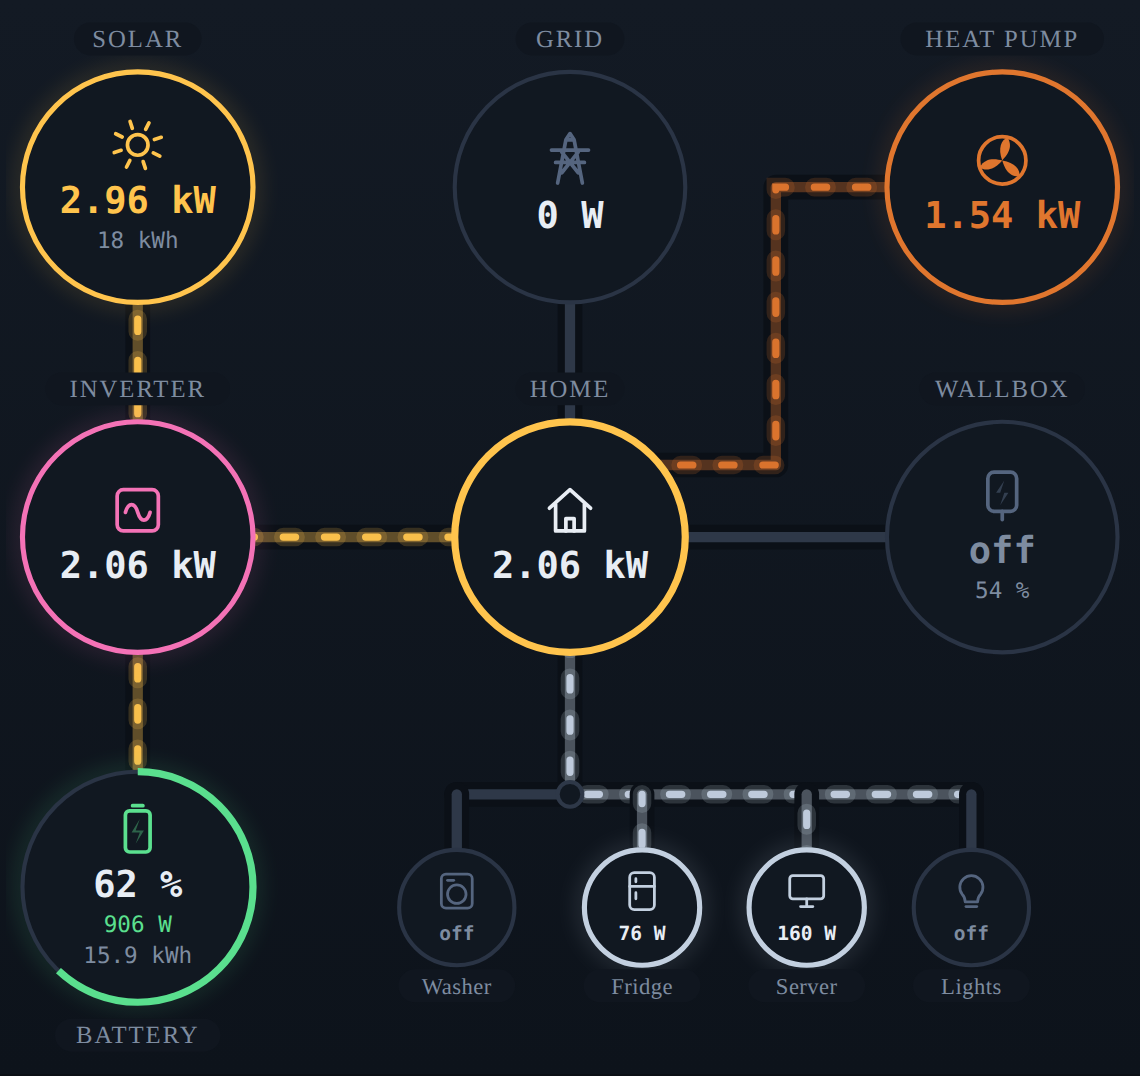
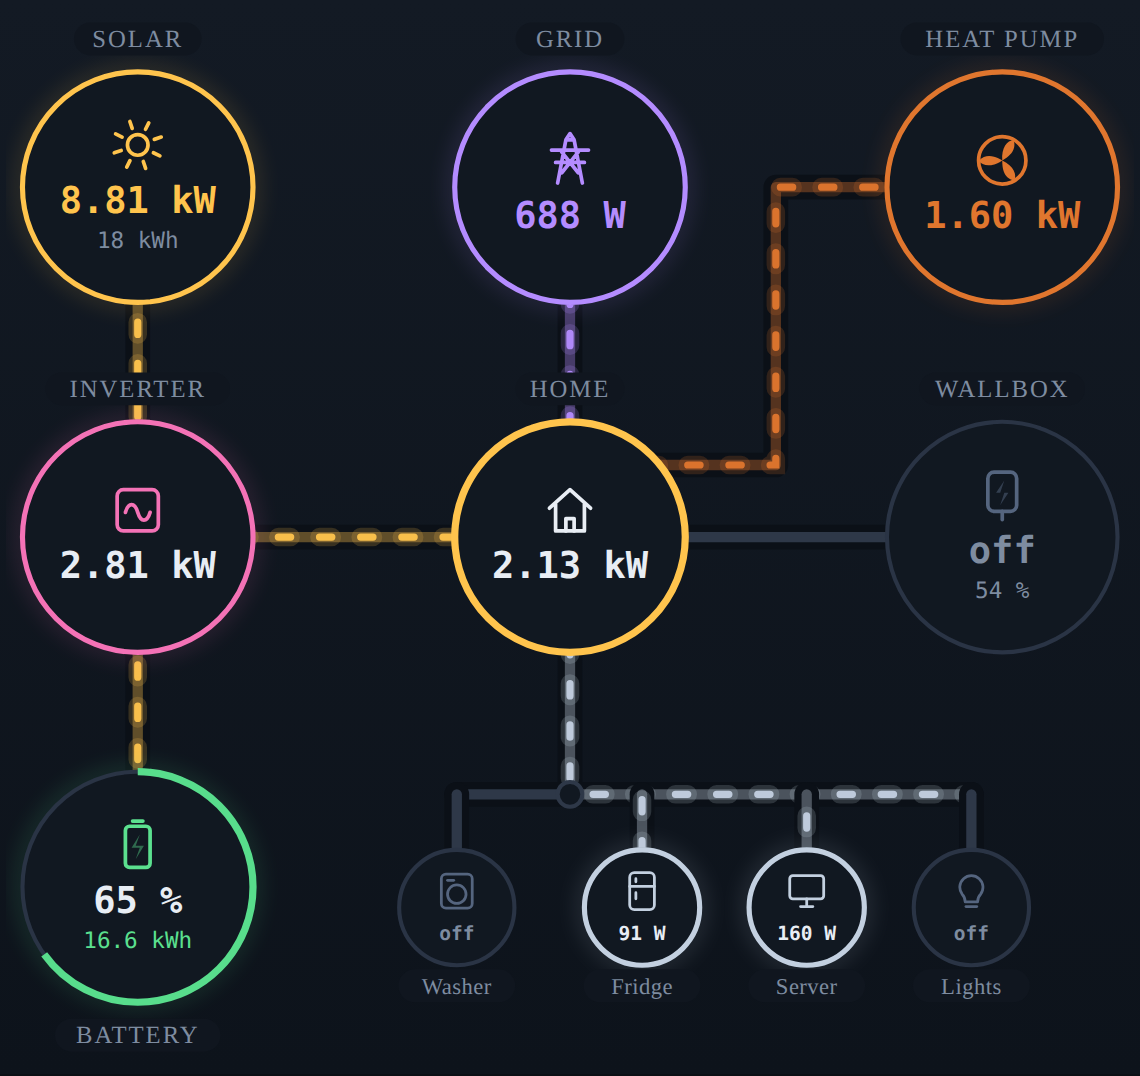
fix kwh batterie

diff --git a/dist/energy-flow-card-by-lutarym.js b/dist/energy-flow-card-by-lutarym.js
@@ -165,8 +165,8 @@ const DEFAULT_CONFIG = {
   animation_speed: 1,
   // Faktor fuer alle Schriften der Karte, 1 ist normal.
   font_scale: 1,
-  // Nutzbare Kapazitaet des Akkus in kWh. 0 heisst: kein Inhalt in kWh.
-  battery_capacity: 0,
+  // Kapazitaet des Akkus in kWh, falls keine Entitaet sie liefert.
+  battery_capacity_kwh: 0,
   // Leistung, bei der die Striche am schnellsten laufen, in Watt.
   max_power: 10000,
   // Unterhalb dieser Leistung in Watt anzeigen, darueber in kW.
@@ -461,6 +461,28 @@ class LutarymEnergyFlowCard extends HTMLElement {
   _verbraucherText(id, w, aktiv) {
     if (w !== null && w !== undefined) return aktiv ? this._wText(w) : this._t("aus");
     return this._zustand(id) ? this._t("nv") : "--";
+  }
+
+  /**
+   * Maximale Kapazitaet des Akkus in kWh. Eine Entitaet gewinnt, etwa
+   * capacity_maximum der Fronius-Integration in Wh. Sonst der feste Wert.
+   */
+  _kapazitaet() {
+    const c = this._config;
+    if (c.demo) return 25.6;
+    const id = c.entities && c.entities.battery_capacity;
+    const st = id ? this._zustand(id) : null;
+    if (st) {
+      const v = parseFloat(st.state);
+      if (!Number.isNaN(v) && v > 0) {
+        const einheit = String((st.attributes && st.attributes.unit_of_measurement) || "")
+          .trim().toLowerCase();
+        if (einheit === "wh") return v / 1000;
+        if (einheit === "mwh") return v * 1000;
+        return v;
+      }
+    }
+    return Number(c.battery_capacity_kwh) || 0;
   }
 
   _zahlText(v, stellen) {
@@ -1027,15 +1049,15 @@ class LutarymEnergyFlowCard extends HTMLElement {
     if (m.laden !== null || m.entladen !== null) {
       akkuW = an(m.laden) ? m.laden : an(m.entladen) ? m.entladen : 0;
     }
-    this._setText("akku-s", this._wText(akkuW));
-    const akkuS = this._el("akku-s");
-    if (akkuS) akkuS.style.fill = an(akkuW) ? FARBE.akku : "";
-    // Inhalt des Akkus in kWh aus Ladestand und eingetragener Kapazitaet.
-    const kap = c.demo ? 25.6 : Number(c.battery_capacity) || 0;
-    this._setText("akku-s2", kap > 0 && m.soc !== null
+    // Statt der Leistung steht im Akku die gespeicherte Energie:
+    // Ladestand mal maximale Kapazitaet.
+    const kap = this._kapazitaet();
+    this._setText("akku-s", kap > 0 && m.soc !== null
       ? `${this._zahlText((clamp(m.soc, 0, 100) / 100) * kap, 1)} kWh`
       : "");
-    this._setText("akku-s3", zusatz("battery_secondary"));
+    const akkuS = this._el("akku-s");
+    if (akkuS) akkuS.style.fill = an(akkuW) ? FARBE.akku : "";
+    this._setText("akku-s2", zusatz("battery_secondary"));
     this._setBogen("akku-soc", 0, m.soc === null ? 0 : m.soc / 100, socFarbe(m.soc));
     this._setAktiv("akku", an(m.laden) || an(m.entladen), FARBE.akku);
     const akkuRing = this._el("ring-akku");
@@ -1371,7 +1393,8 @@ const EDITOR_TEXTE = {
     battery_charge: "oder getrennt: Laden",
     battery_discharge: "oder getrennt: Entladen",
     battery_soc: "Ladestand (%)",
-    battery_capacity: "Nutzbare Kapazität (kWh, 0 = Inhalt nicht anzeigen)",
+    battery_capacity: "Maximale Kapazität (Entität, z.B. Fronius capacity_maximum)",
+    battery_capacity_kwh: "oder fester Wert in kWh, falls keine Entität",
     battery_secondary: "Zusatzzeile (z.B. Temperatur)",
     name_battery: "Eigener Name",
     home: "Hausverbrauch (leer = wird berechnet)",
@@ -1429,7 +1452,8 @@ const EDITOR_TEXTE = {
     battery_charge: "or split: charge",
     battery_discharge: "or split: discharge",
     battery_soc: "State of charge (%)",
-    battery_capacity: "Usable capacity (kWh, 0 = do not show content)",
+    battery_capacity: "Maximum capacity (entity, e.g. Fronius capacity_maximum)",
+    battery_capacity_kwh: "or fixed value in kWh if no entity",
     battery_secondary: "Extra line (e.g. temperature)",
     name_battery: "Own name",
     home: "Home consumption (empty = calculated)",
@@ -1571,7 +1595,8 @@ class LutarymEnergyFlowCardEditor extends HTMLElement {
         { name: "battery_charge", ort: "e", selector: LEISTUNG },
         { name: "battery_discharge", ort: "e", selector: LEISTUNG },
         { name: "battery_soc", ort: "e", selector: LEISTUNG },
-        { name: "battery_capacity", selector: { number: { min: 0, max: 200, step: 0.1, mode: "box", unit_of_measurement: "kWh" } } },
+        { name: "battery_capacity", ort: "e", selector: LEISTUNG },
+        { name: "battery_capacity_kwh", selector: { number: { min: 0, max: 200, step: 0.1, mode: "box", unit_of_measurement: "kWh" } } },
         { name: "battery_secondary", ort: "e", selector: BELIEBIG },
         { name: "name_battery", selector: TEXT },
       ] },

diff --git a/README.de.md b/README.de.md
@@ -70,6 +70,7 @@ consumers:
 | `battery` | Akkuleistung, positiv ist Entladen |
 | `battery_charge`, `battery_discharge` | Statt `battery`: zwei getrennte Sensoren |
 | `battery_soc` | Ladestand des Akkus in % |
+| `battery_capacity` | Maximale Kapazität des Akkus in Wh oder kWh, z.B. Fronius `capacity_maximum`. Der Akku zeigt dann die gespeicherte Energie in kWh |
 | `inverter` | AC-Leistung des Wechselrichters. Leer: wird aus PV und Akku berechnet |
 | `home` | Hausverbrauch. Leer: wird aus PV, Netz und Akku berechnet |
 | `heatpump` | Leistung der Wärmepumpe |
@@ -90,7 +91,7 @@ Symbole: `steckdose`, `waschmaschine`, `spuelmaschine`, `herd`, `kuehlschrank`, 
 | `animate` | `true` | Animation zeigen |
 | `animation_speed` | `1` | Faktor für die Animationsgeschwindigkeit, 0,25 bis 3 |
 | `font_scale` | `1` | Faktor für alle Schriften, 0,7 bis 1,3 |
-| `battery_capacity` | `0` | Nutzbare Kapazität des Akkus in kWh. Zeigt den Inhalt in kWh, 0 ist aus |
+| `battery_capacity_kwh` | `0` | Feste Kapazität des Akkus in kWh, falls keine Entität `battery_capacity` gesetzt ist |
 | `max_power` | `10000` | Leistung in W, bei der die Striche am schnellsten laufen |
 | `kw_threshold` | `1000` | Ab dieser Leistung in W wird in kW angezeigt |
 | `min_flow` | `10` | Kleinere Leistung in W gilt als Stillstand |

diff --git a/README.md b/README.md
@@ -70,6 +70,7 @@ consumers:
 | `battery` | Battery power, positive is discharge |
 | `battery_charge`, `battery_discharge` | Instead of `battery`: two separate sensors |
 | `battery_soc` | Battery state of charge in % |
+| `battery_capacity` | Maximum battery capacity in Wh or kWh, e.g. Fronius `capacity_maximum`. The battery then shows its stored energy in kWh |
 | `inverter` | Inverter AC power. Empty: calculated from solar and battery |
 | `home` | Home consumption. Empty: calculated from solar, grid and battery |
 | `heatpump` | Heat pump power |
@@ -90,7 +91,7 @@ Symbols: `steckdose`, `waschmaschine`, `spuelmaschine`, `herd`, `kuehlschrank`, 
 | `animate` | `true` | Show the animation |
 | `animation_speed` | `1` | Speed factor of the animation, 0.25 to 3 |
 | `font_scale` | `1` | Size factor for all text, 0.7 to 1.3 |
-| `battery_capacity` | `0` | Usable battery capacity in kWh. Shows the content in kWh, 0 is off |
+| `battery_capacity_kwh` | `0` | Fixed battery capacity in kWh, used when no `battery_capacity` entity is set |
 | `max_power` | `10000` | Power in W at which the lines run fastest |
 | `kw_threshold` | `1000` | From this power in W the value is shown in kW |
 | `min_flow` | `10` | Lower power in W counts as idle |
